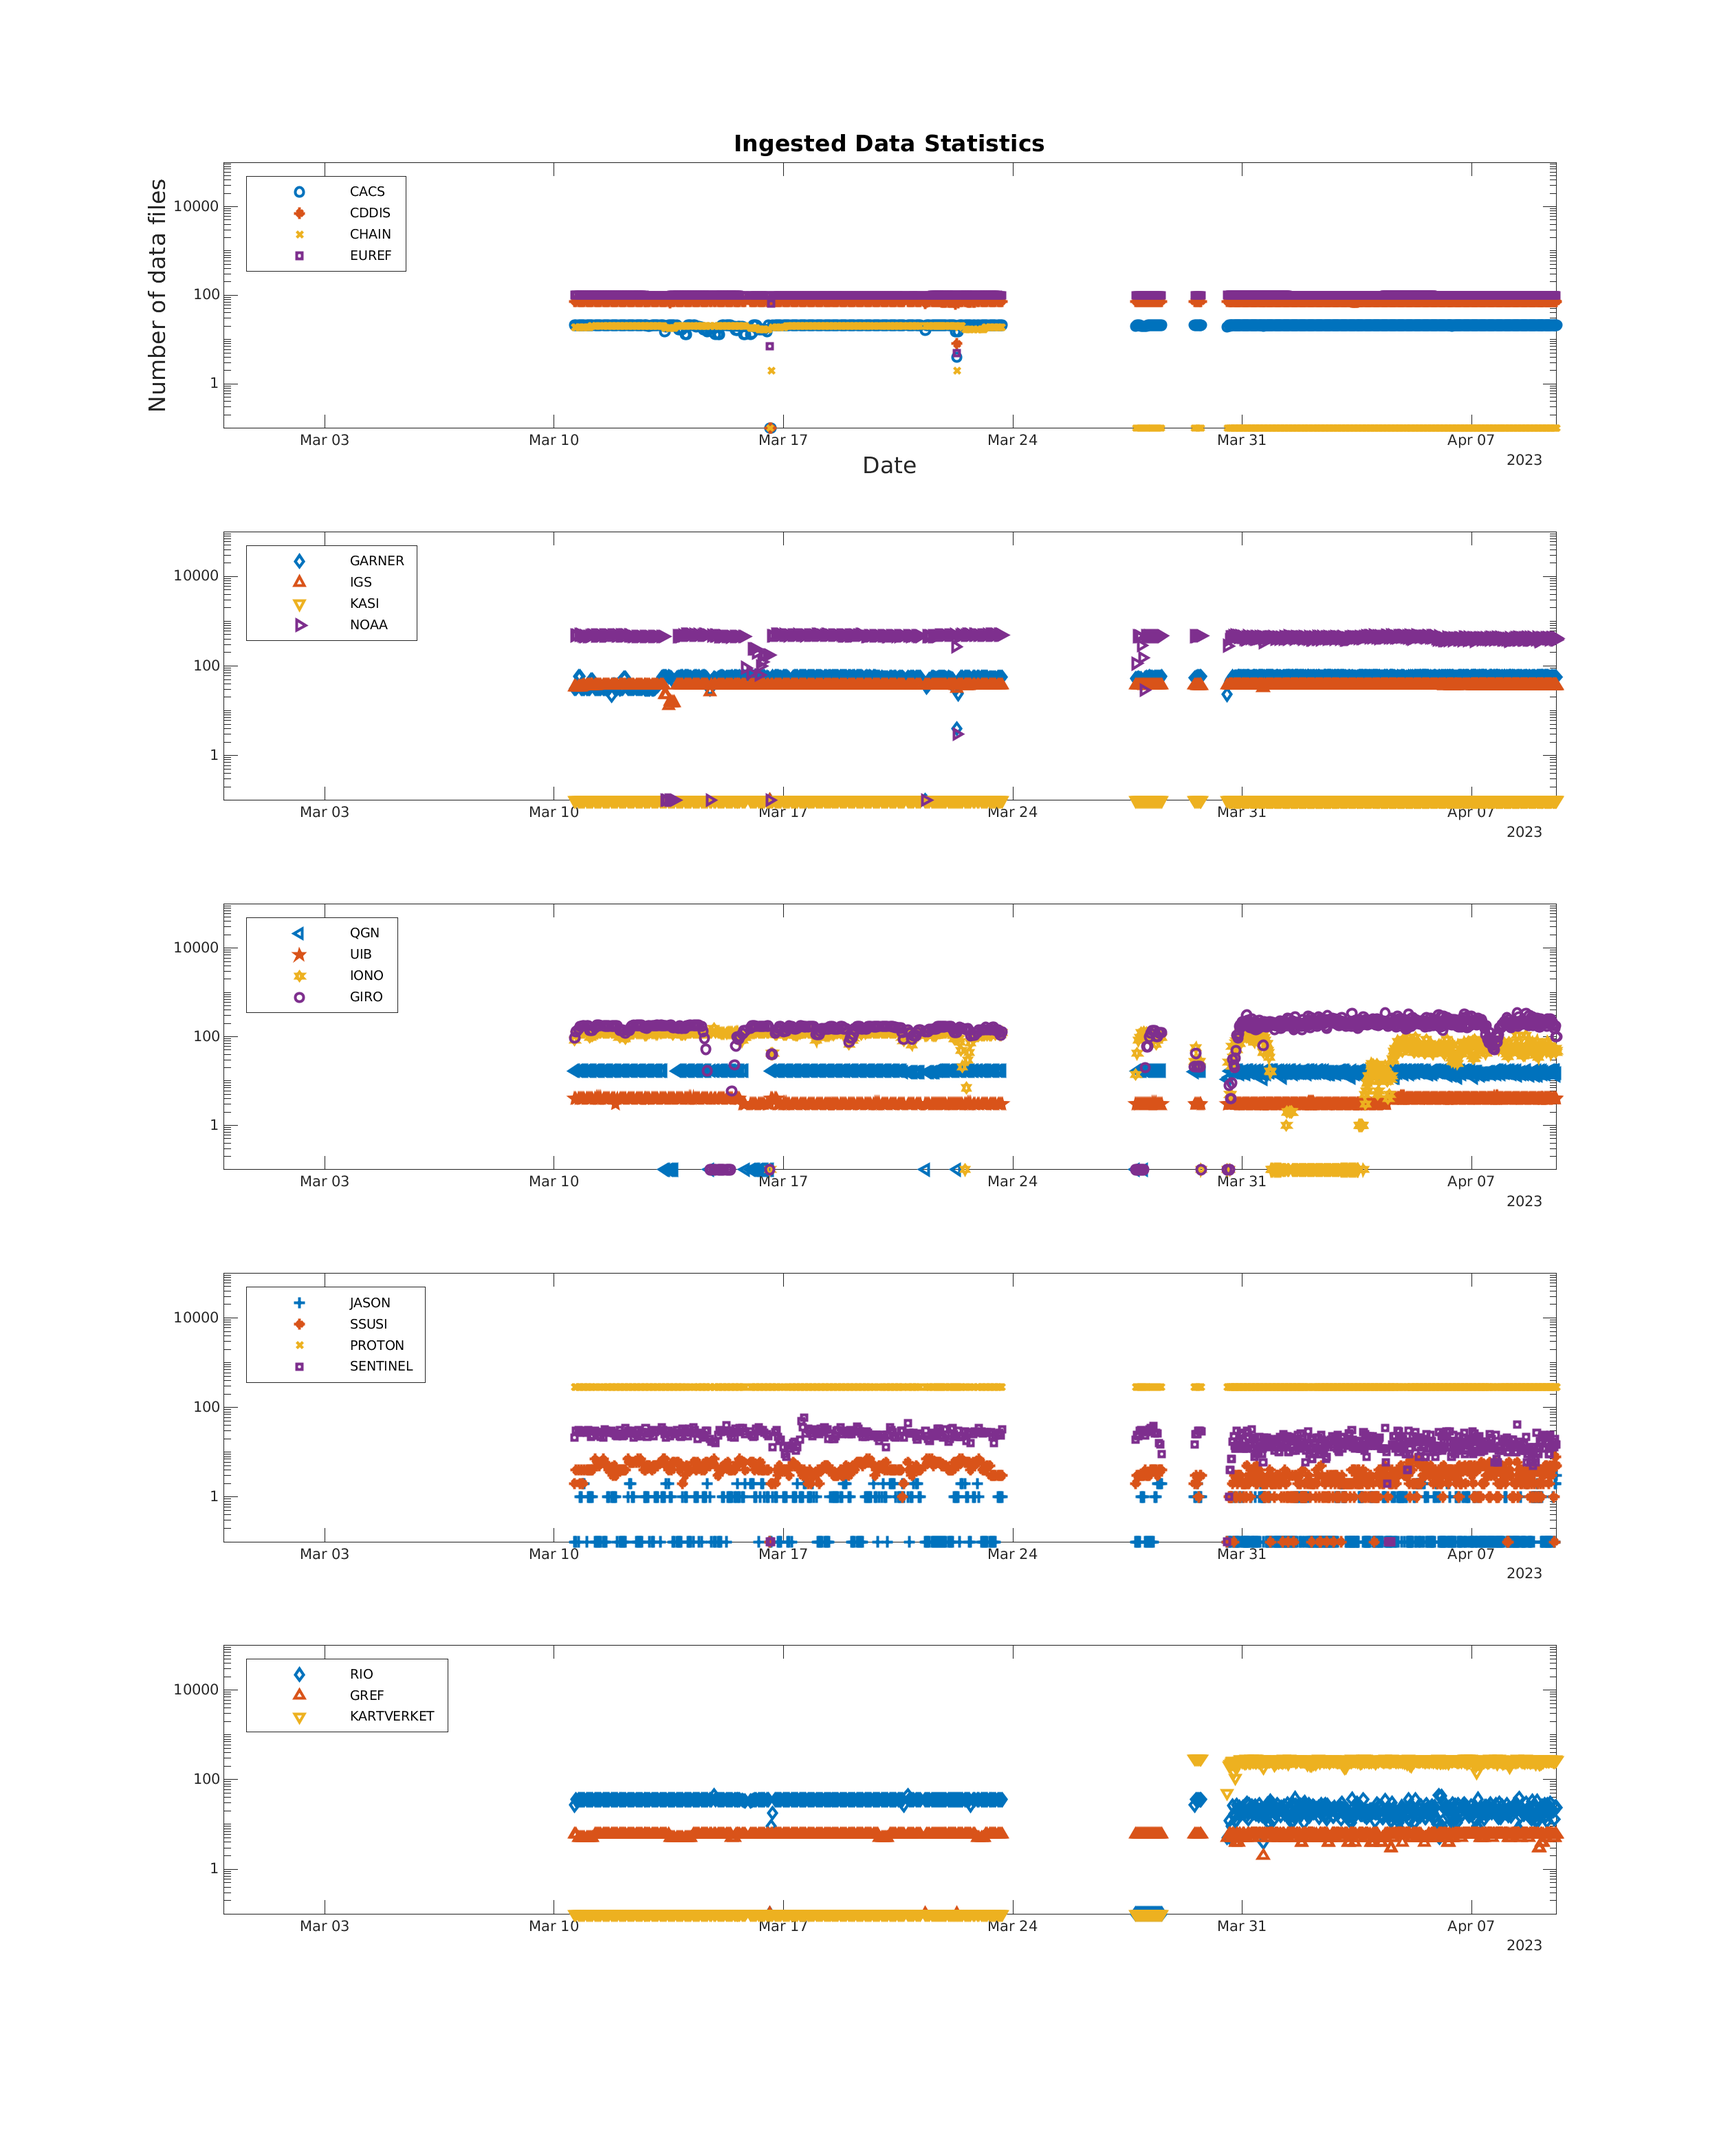
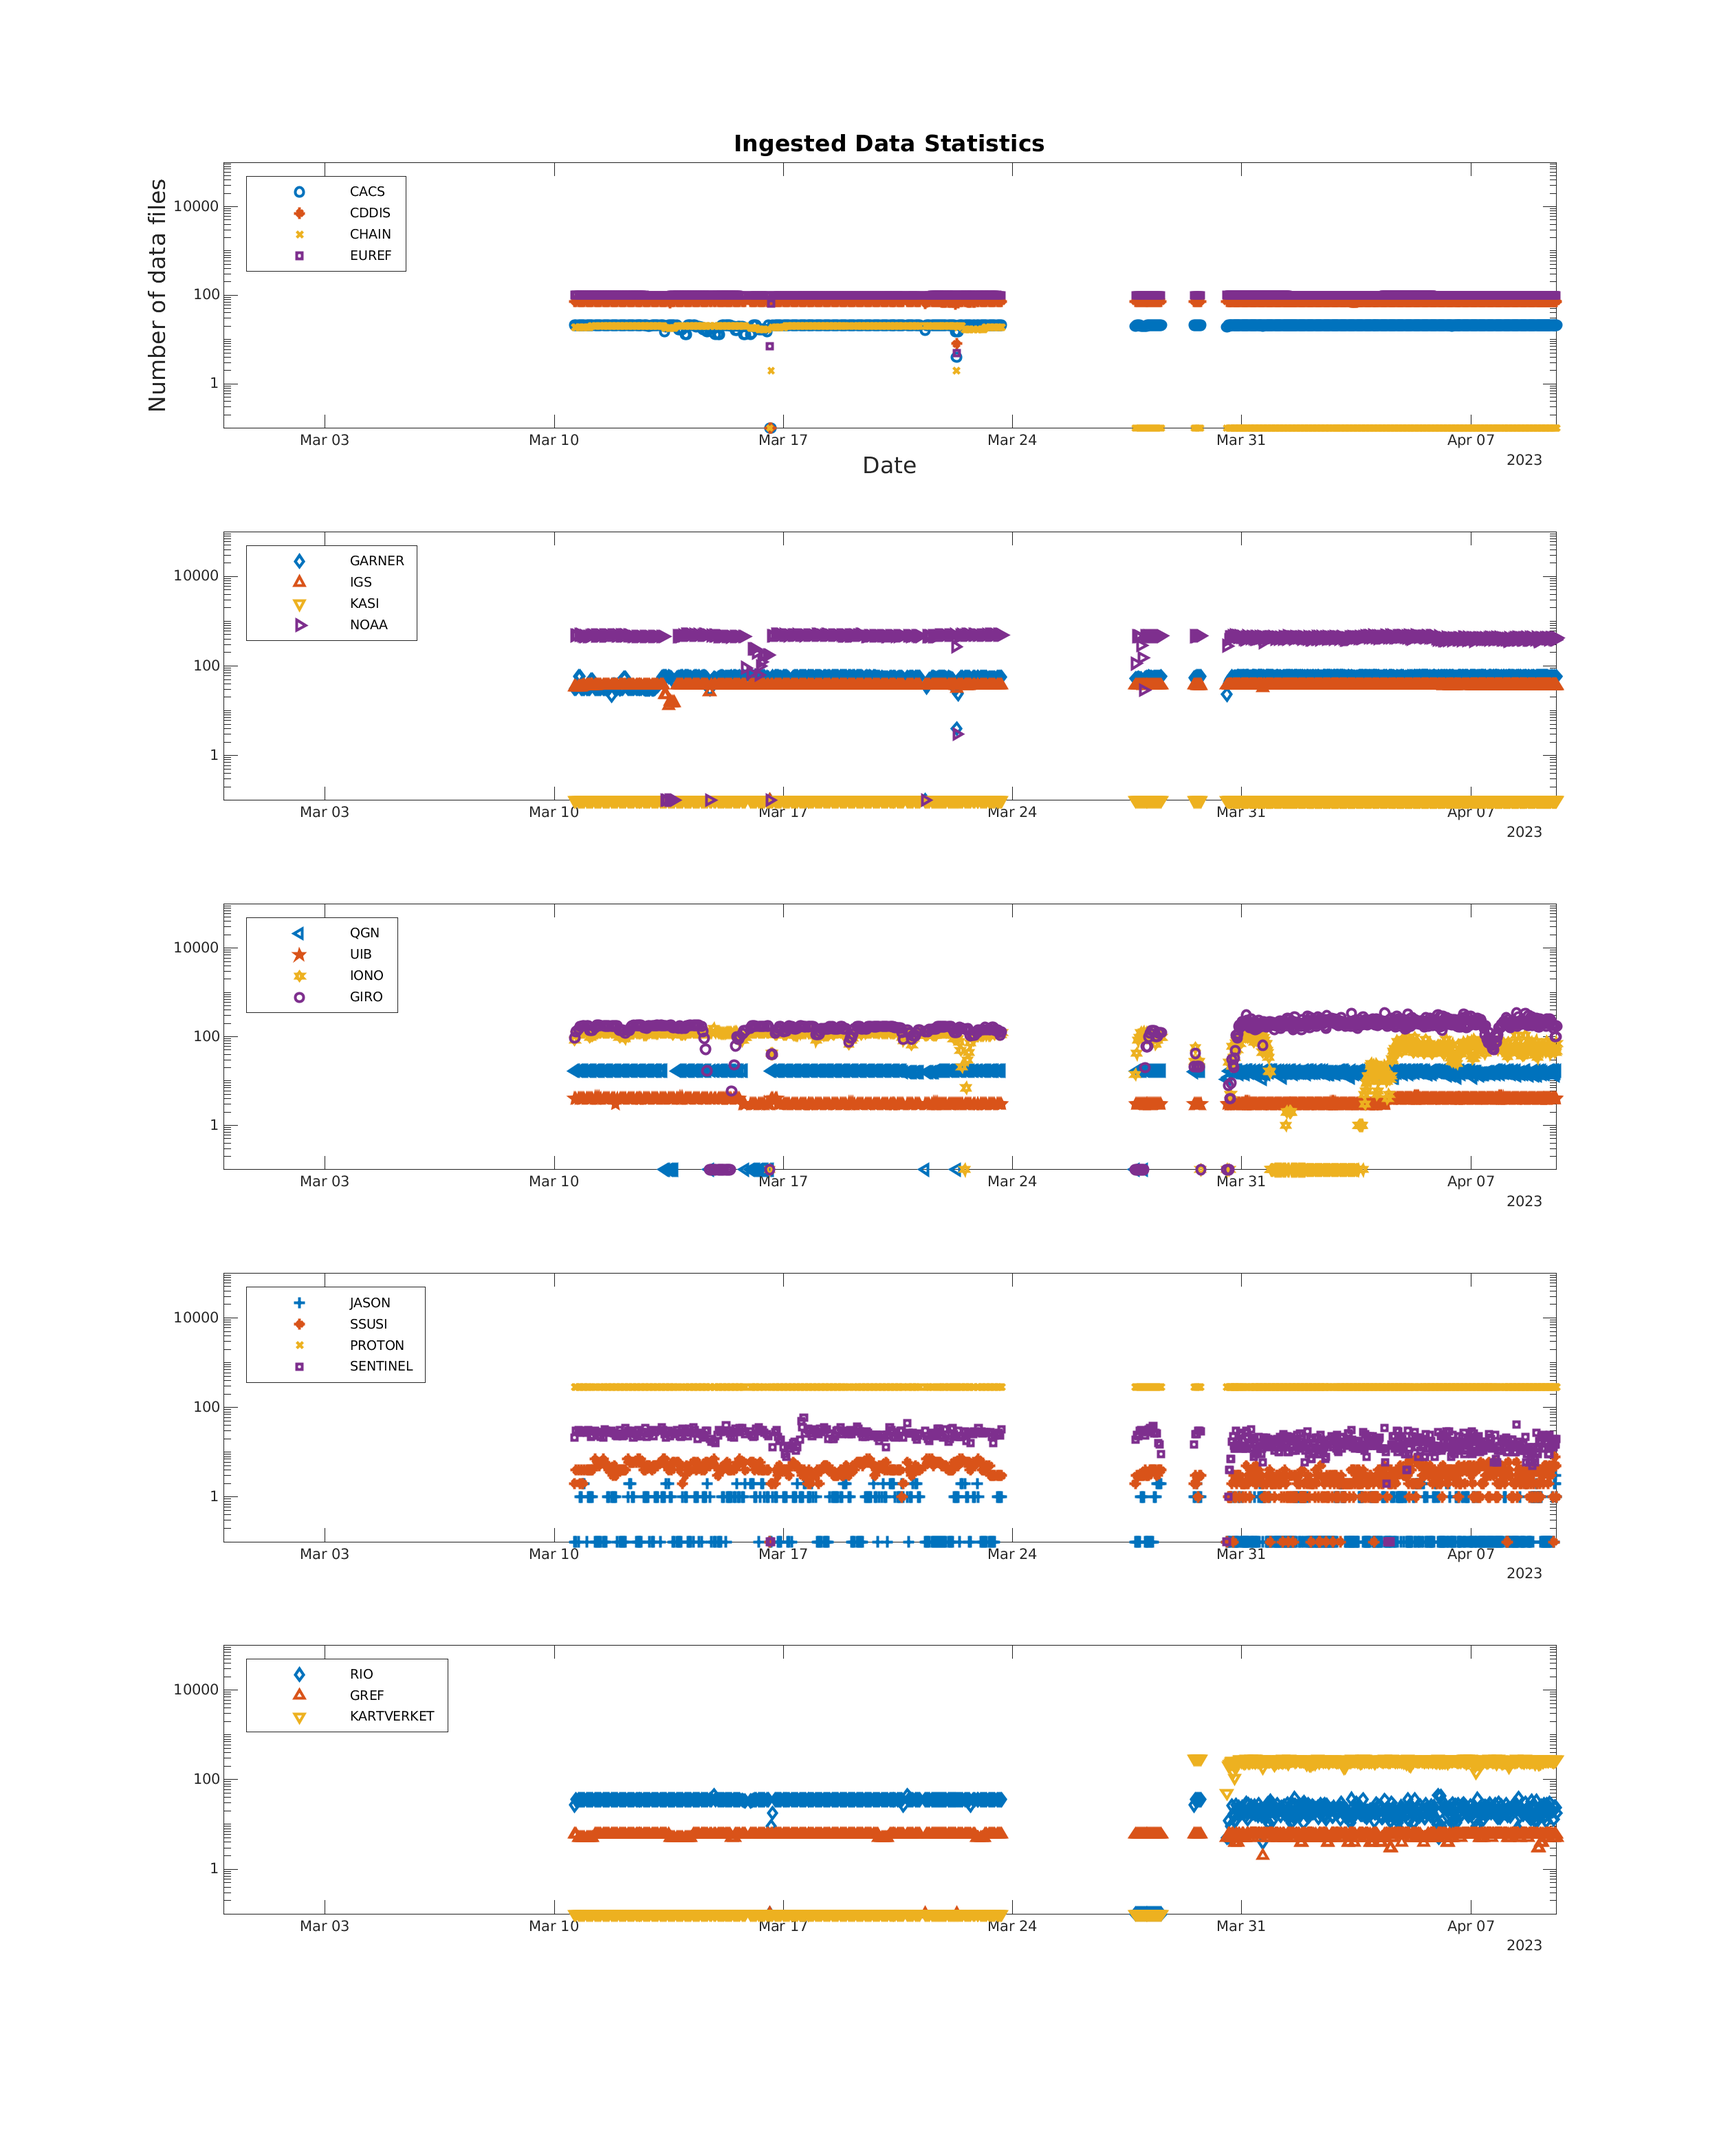
update 2023-04-09 15:17:30

diff --git a/_posts/2023-04-09-14-50-22.md b/_posts/2023-04-09-14-50-22.md
@@ -1,8 +1,8 @@
 ---
 layout: post
-title: "2023-04-09 14:20:25"
-subtitle: "ModelData Issues: 2; A-CHAIM System Issues: 0"
-
+title: "2023-04-09 14:50:22"
+subtitle: "ModelData Issues: 2; A-CHAIM System Issues: 1"
+permalink: /latest/
 ---
 
 ![]({{ "/assets/img/achaimDataStatsShort-2309914.png" | relative_url }})
@@ -17,12 +17,15 @@ subtitle: "ModelData Issues: 2; A-CHAIM System Issues: 0"
 ### ModelData Issues:  
   
 {: .box-warning}  
- ModelData report for 09-Apr-2023 14:20:11   
+ ModelData report for 09-Apr-2023 14:50:09   
  /home/chaim/ACHAIM_SERVER/A-CHAIM/modelData/2023/099/14/modelData.mat   
- 0% of all possible stations for KASI were downloaded. x1544   
- 0% of all possible stations for CHAIN were downloaded. x505   
+ 0% of all possible stations for KASI were downloaded. x1545   
+ 0% of all possible stations for CHAIN were downloaded. x506   
   
-
+### A-CHAIM System Issues:  
+  
+{: .box-error}  
+2023-04-09 14:50:16 Conversion to logical from string is not possible.  
 
 ### Logs:  
   
